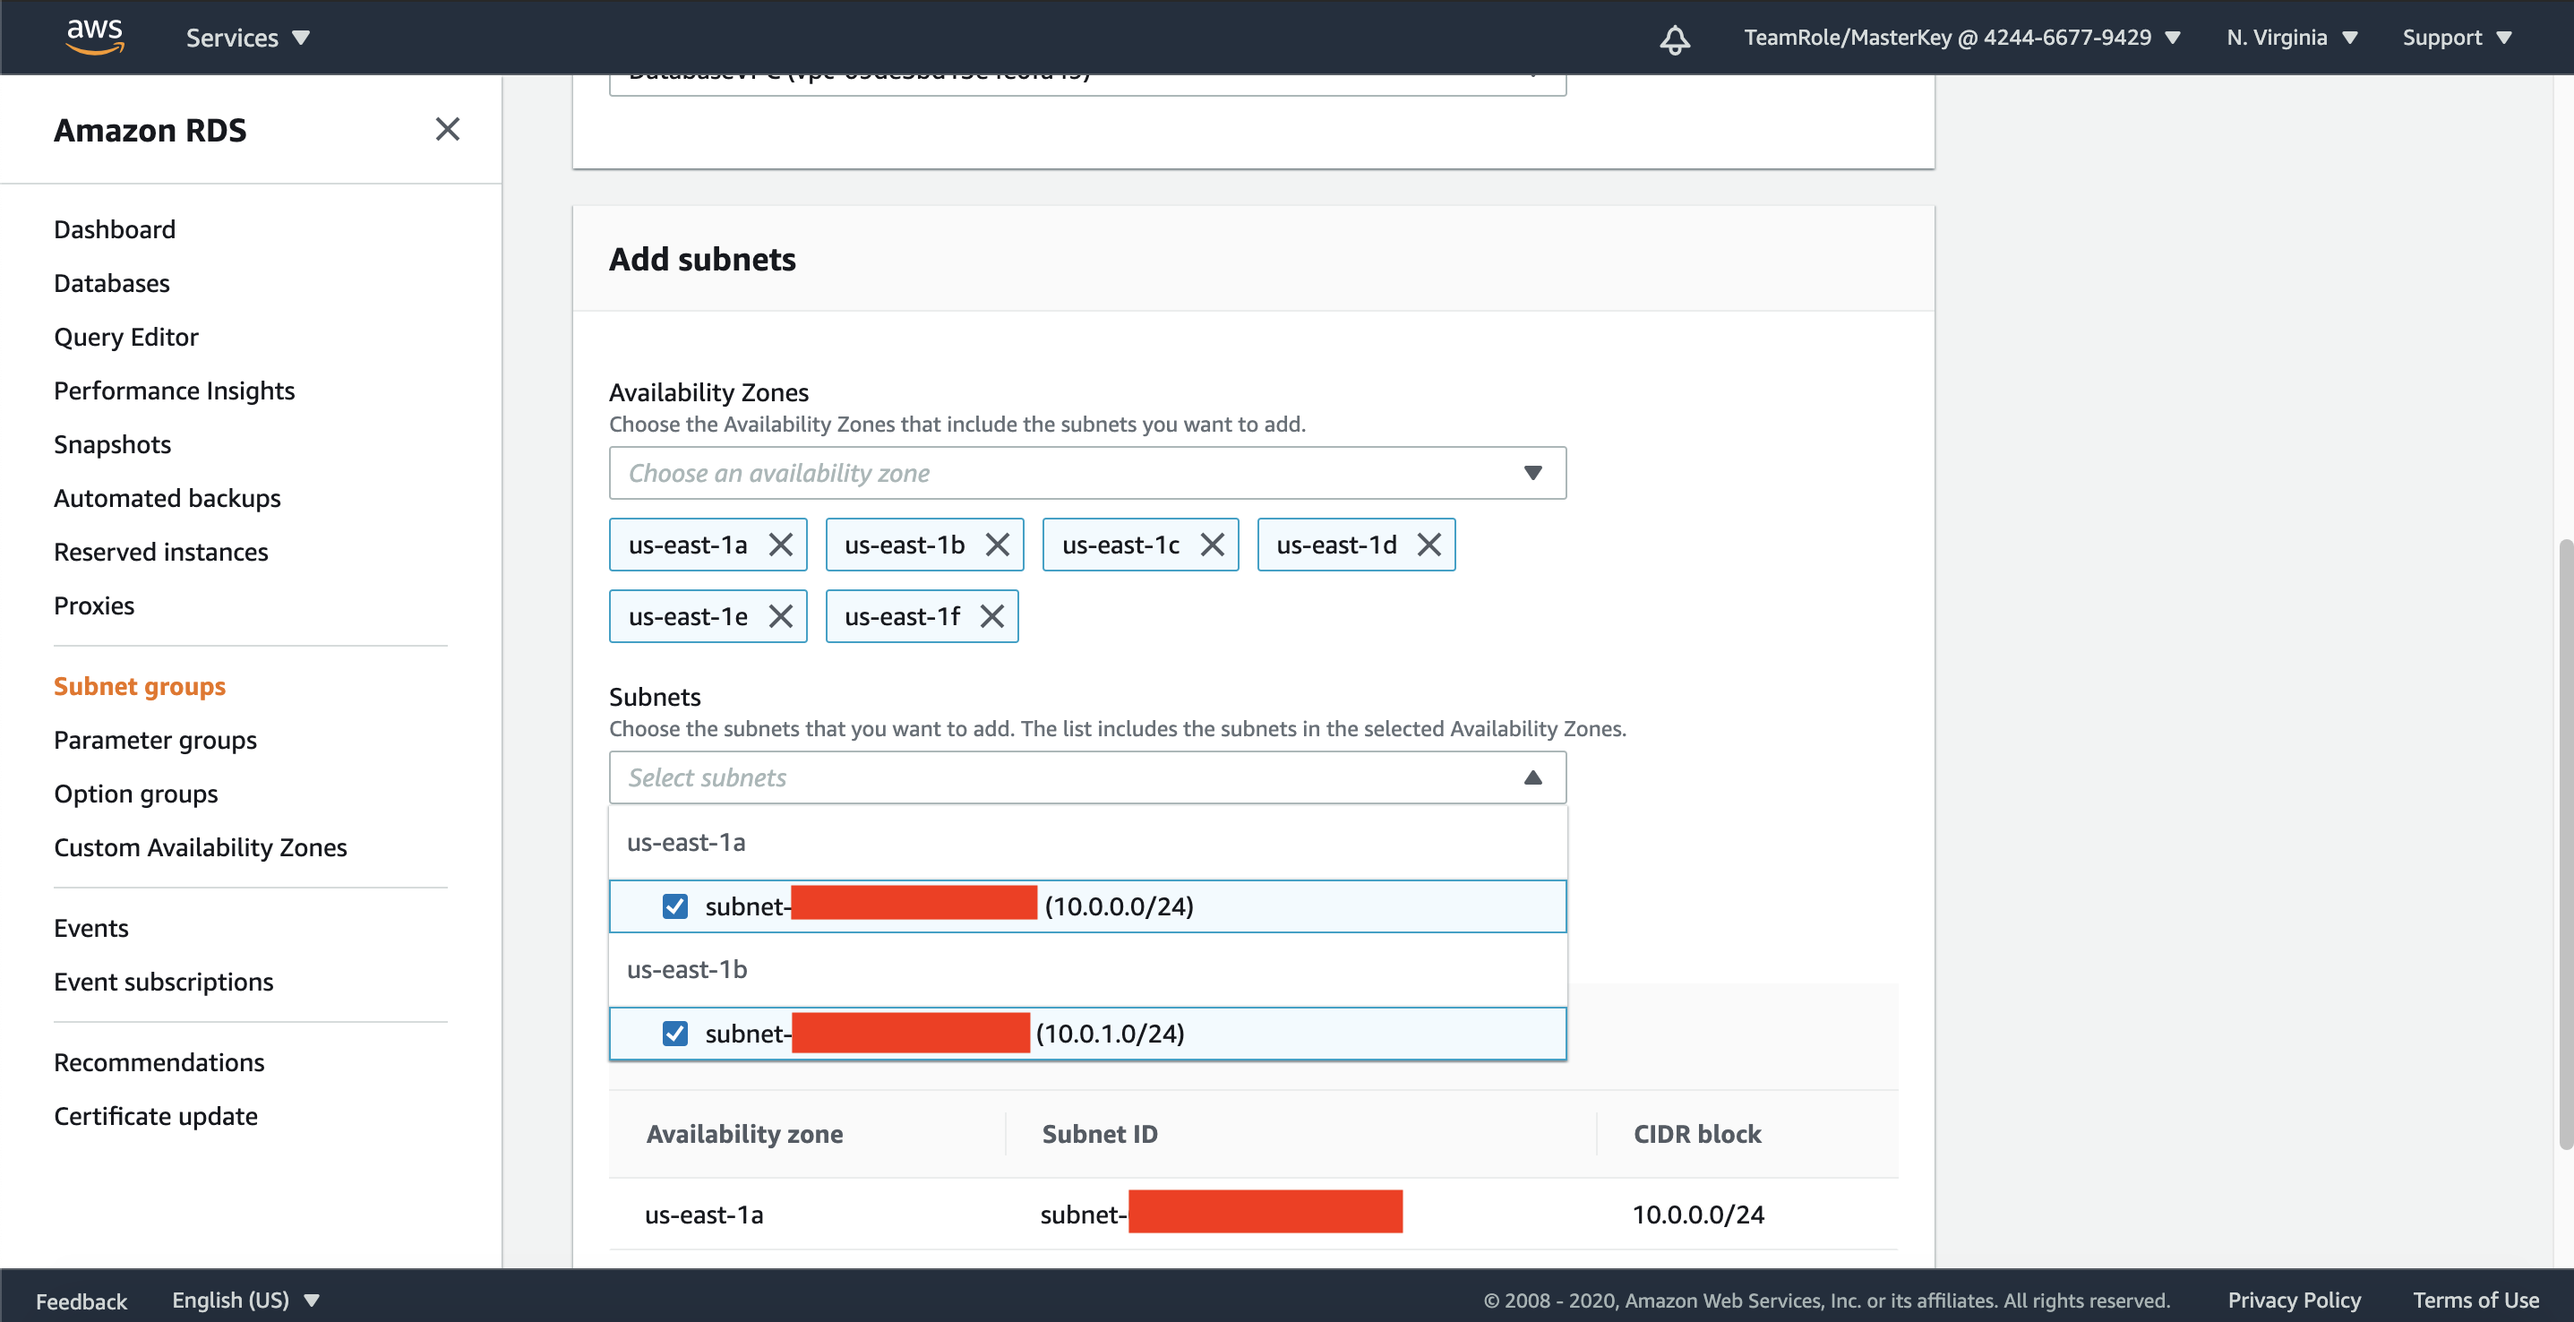
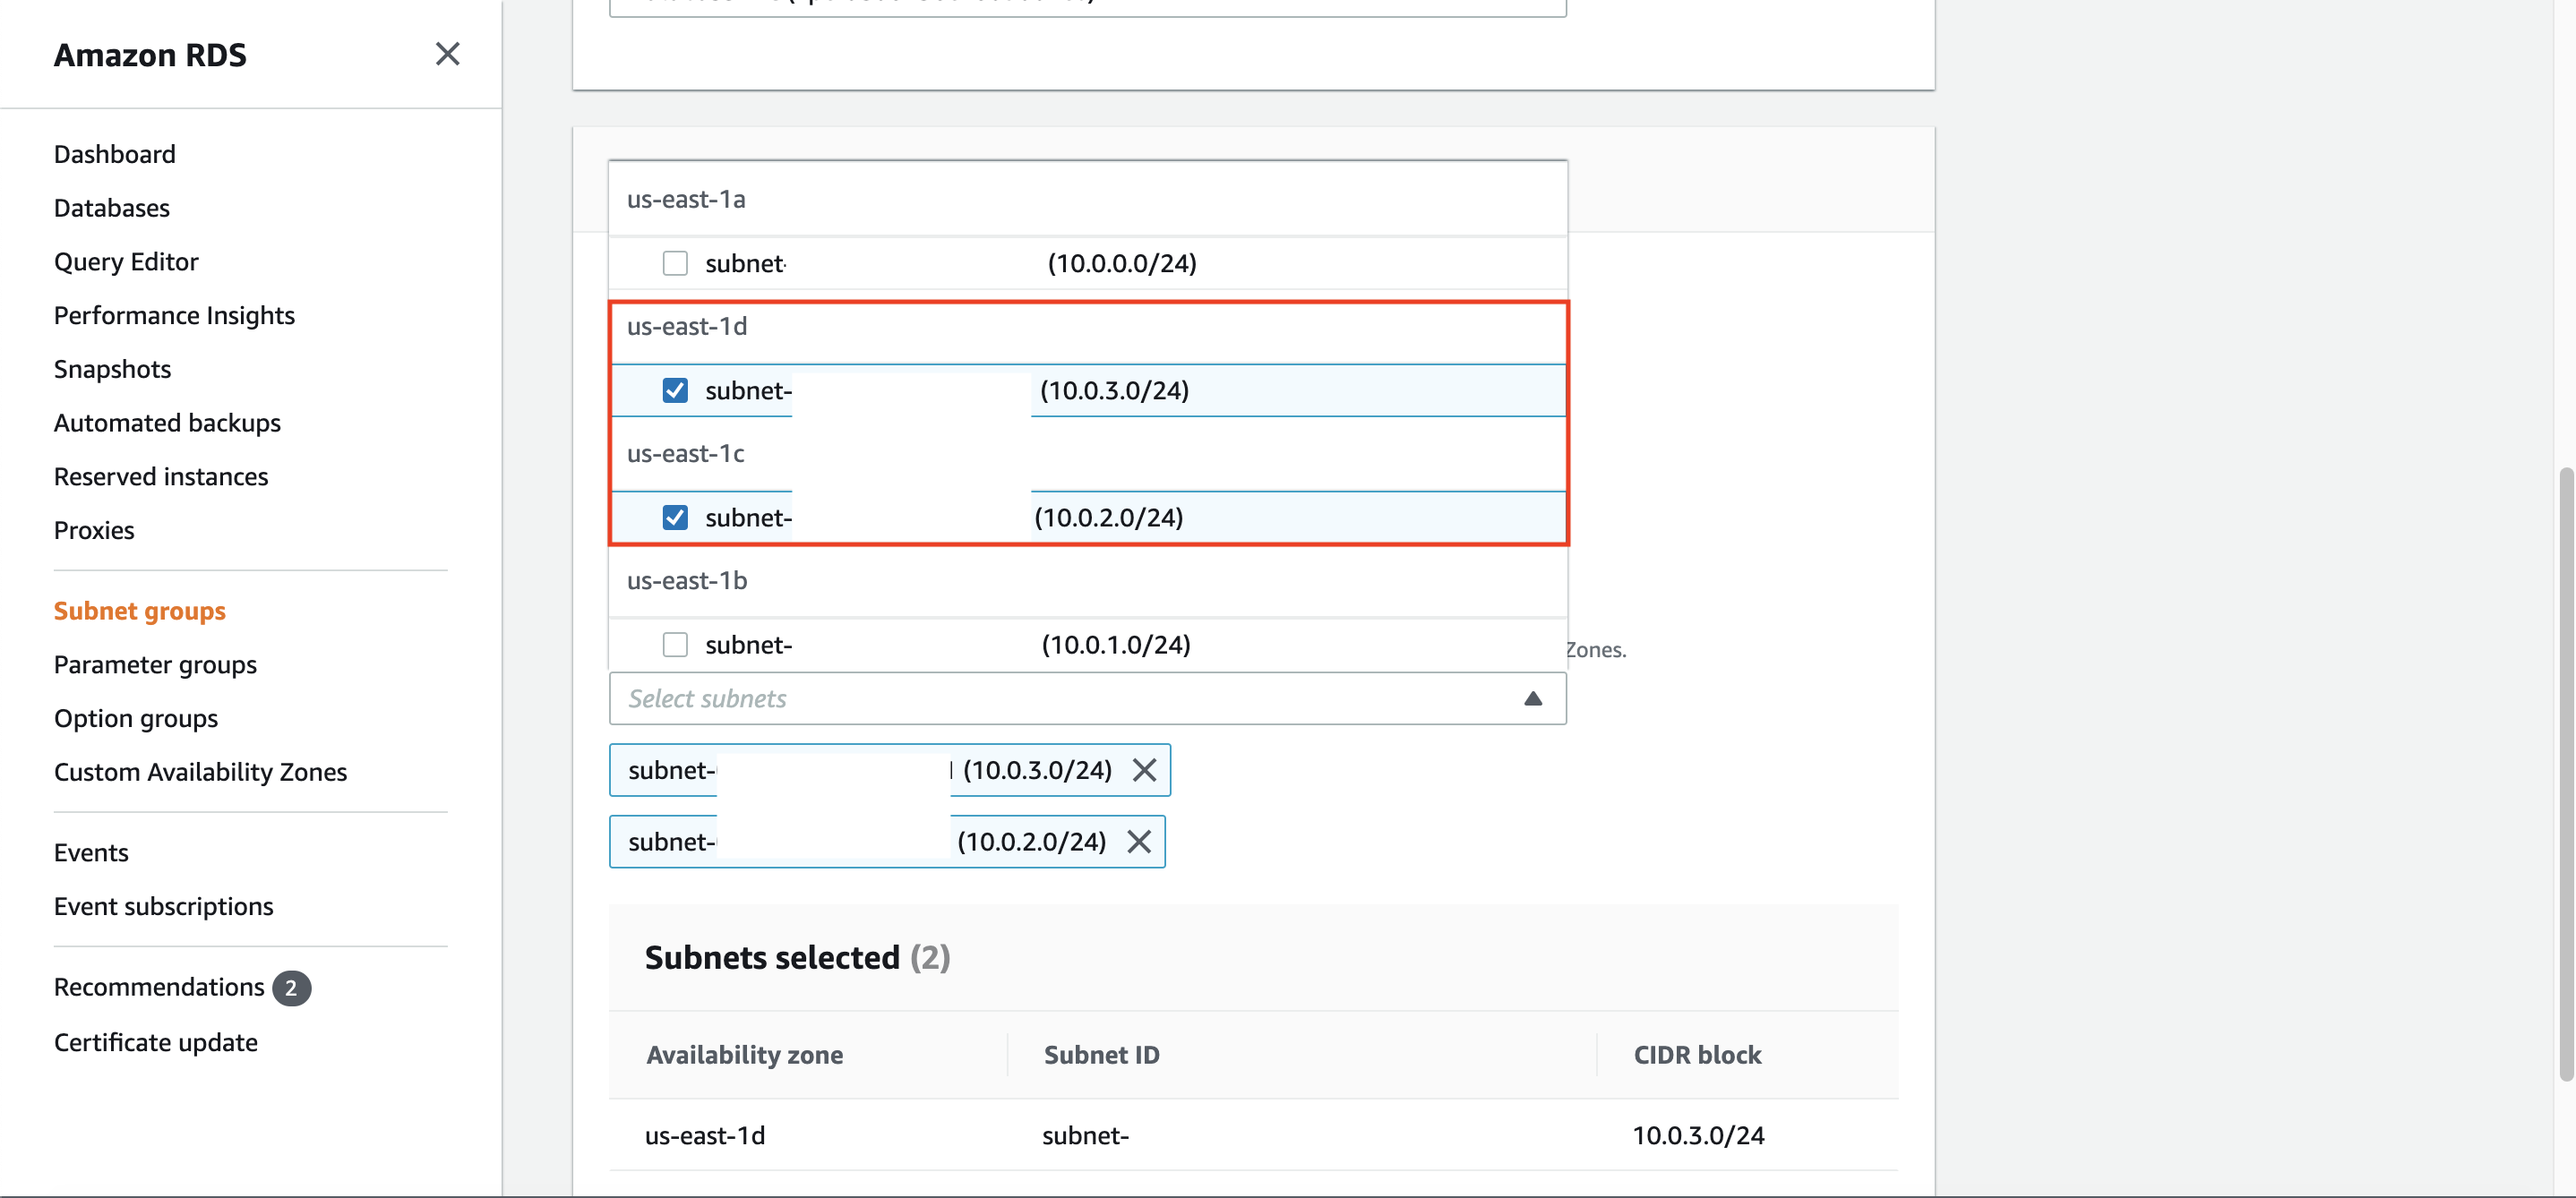
Finalize Create RDS

diff --git a/docs/Migration/CreateRDS.md b/docs/Migration/CreateRDS.md
@@ -12,11 +12,13 @@
     ![](../../images/Migration/CreateRDS/7.png)
 8. in Availability Zone, checklist all of it.
     ![](../../images/Migration/CreateRDS/8.png)
-9. in Subnets, choose all of the subnets available.
+9. in Subnets, choose subnet in us-east-1c and us-east-1d
     ![](../../images/Migration/CreateRDS/9.png)
 10. Click `Create`
 
 It will create the subnet group for your database.
+
+Now, we need to create the security group for the database
 
 12. go to [EC2 Console](https://console.aws.amazon.com/ec2/v2/home?region=us-east-1#)
 13. Click `Security Group` at the left menu
@@ -58,26 +60,52 @@ it will display the options for databases you can use.
 32. In settings, typeRDSMySQL the DB instance identifier with `RDSMySQL`
 33. type the master username as `admin`
 34. input your password and confirm password
-35. Type `Next`
+    ![](../../images/Migration/CreateRDS/34.png)
+35. go to the top of the page and ensure you choose version `5.7.31`
     ![](../../images/Migration/CreateRDS/35.png)
-36. In network and security, choose your VPC (`DatabaseVPC`)
-37. Choose your subnet group (`rdsmysqlsubnetgroup`)
-38. Click `Yes` for the public accessibility radio button
-39. in VPC security groups, click `choose existing VPC security groups`
-40. remove the default security group and choose `RDSMySQLSG`
-    ![](../../images/Migration/CreateRDS/40.png)
-41. Scroll down and click `Create database` at the below page.
-42. Click `View DB instance details`
+36. at the bottom page, click `Next`
+37. In network and security, choose your VPC (`DatabaseVPC`)
+38. Choose your subnet group (`rdsmysqlsubnetgroup`)
+39. Click `Yes` for the public accessibility radio button
+40. in Availability zone, choose `us-east-1c`
+41. in VPC security groups, click `choose existing VPC security groups`
+42. remove the default security group and choose `RDSMySQLSG`
+    ![](../../images/Migration/CreateRDS/42.png)
+43. Scroll down and click `Create database` at the below page.
+44. Click `View DB instance details`
 
 Wait until the status of the database says `Available`. It will take couple of minutes.
 
-We need to test the database.
+You will connect to your EC2 instance. now, we need to connect to our RDS instance using this EC2 instance. We are going to use the previous instance you have created on EC2
 
-43. Click `rdsmysql`. It will display the endpoint, networking, and security of the database.
+45. go to [EC2 Console](https://console.aws.amazon.com/ec2/v2/home?region=us-east-1#)
+46. click "Security groups" at the left menu.
+47. search your Security groups "EC2MySQLSG"
+48. Click "Inbound rules"
+49. click "Edit inbound rules"
+    ![](../../images/Migration/CreateRDS/49.png)
+50. click "Add Rule"
+51. in type, select "MySQL/Aurora"
+52. in source, type "RDSMySQLSG" and click the security group.
+53. click "Save rules"
+    ![](../../images/Migration/CreateRDS/53.png)
+
+Now, we can connect to our EC2 instance
+
+54. click "Instances" at the left menu
+55. click the checkbox at the left side of your instance ("EC2MySQL")
+56. click "connect"
+57. open new terminal and copy the SSH syntax at the connect pop-up menu ("ssh -i 'EC2MySQLKey.pem' ...")
+
+We are going to connect our Database service (RDS) by using our EC2 instance.
+
+58. Go to [RDS Console](https://console.aws.amazon.com/rds/home?region=us-east-1#)
+59. click "Databases" at the left menu
+60. Click `rdsmysql`. It will display the endpoint, networking, and security of the database at the bottom page.
     ![](../../images/Migration/CreateRDS/43.png)
-44. Open your terminal
-45. Type 'mysql -h `your RDS Endpoint` -u admin -p'
-46. Type your password
-    ![](../../images/Migration/CreateRDS/46.png)
+61. Open your EC2 terminal you have connected previously
+62. Type 'mysql -h `your RDS Endpoint` -u admin -p'
+63. Type your password
+    ![](../../images/Migration/CreateRDS/63.png)
 
 [BACK TO WORKSHOP GUIDE](../../README.md)
